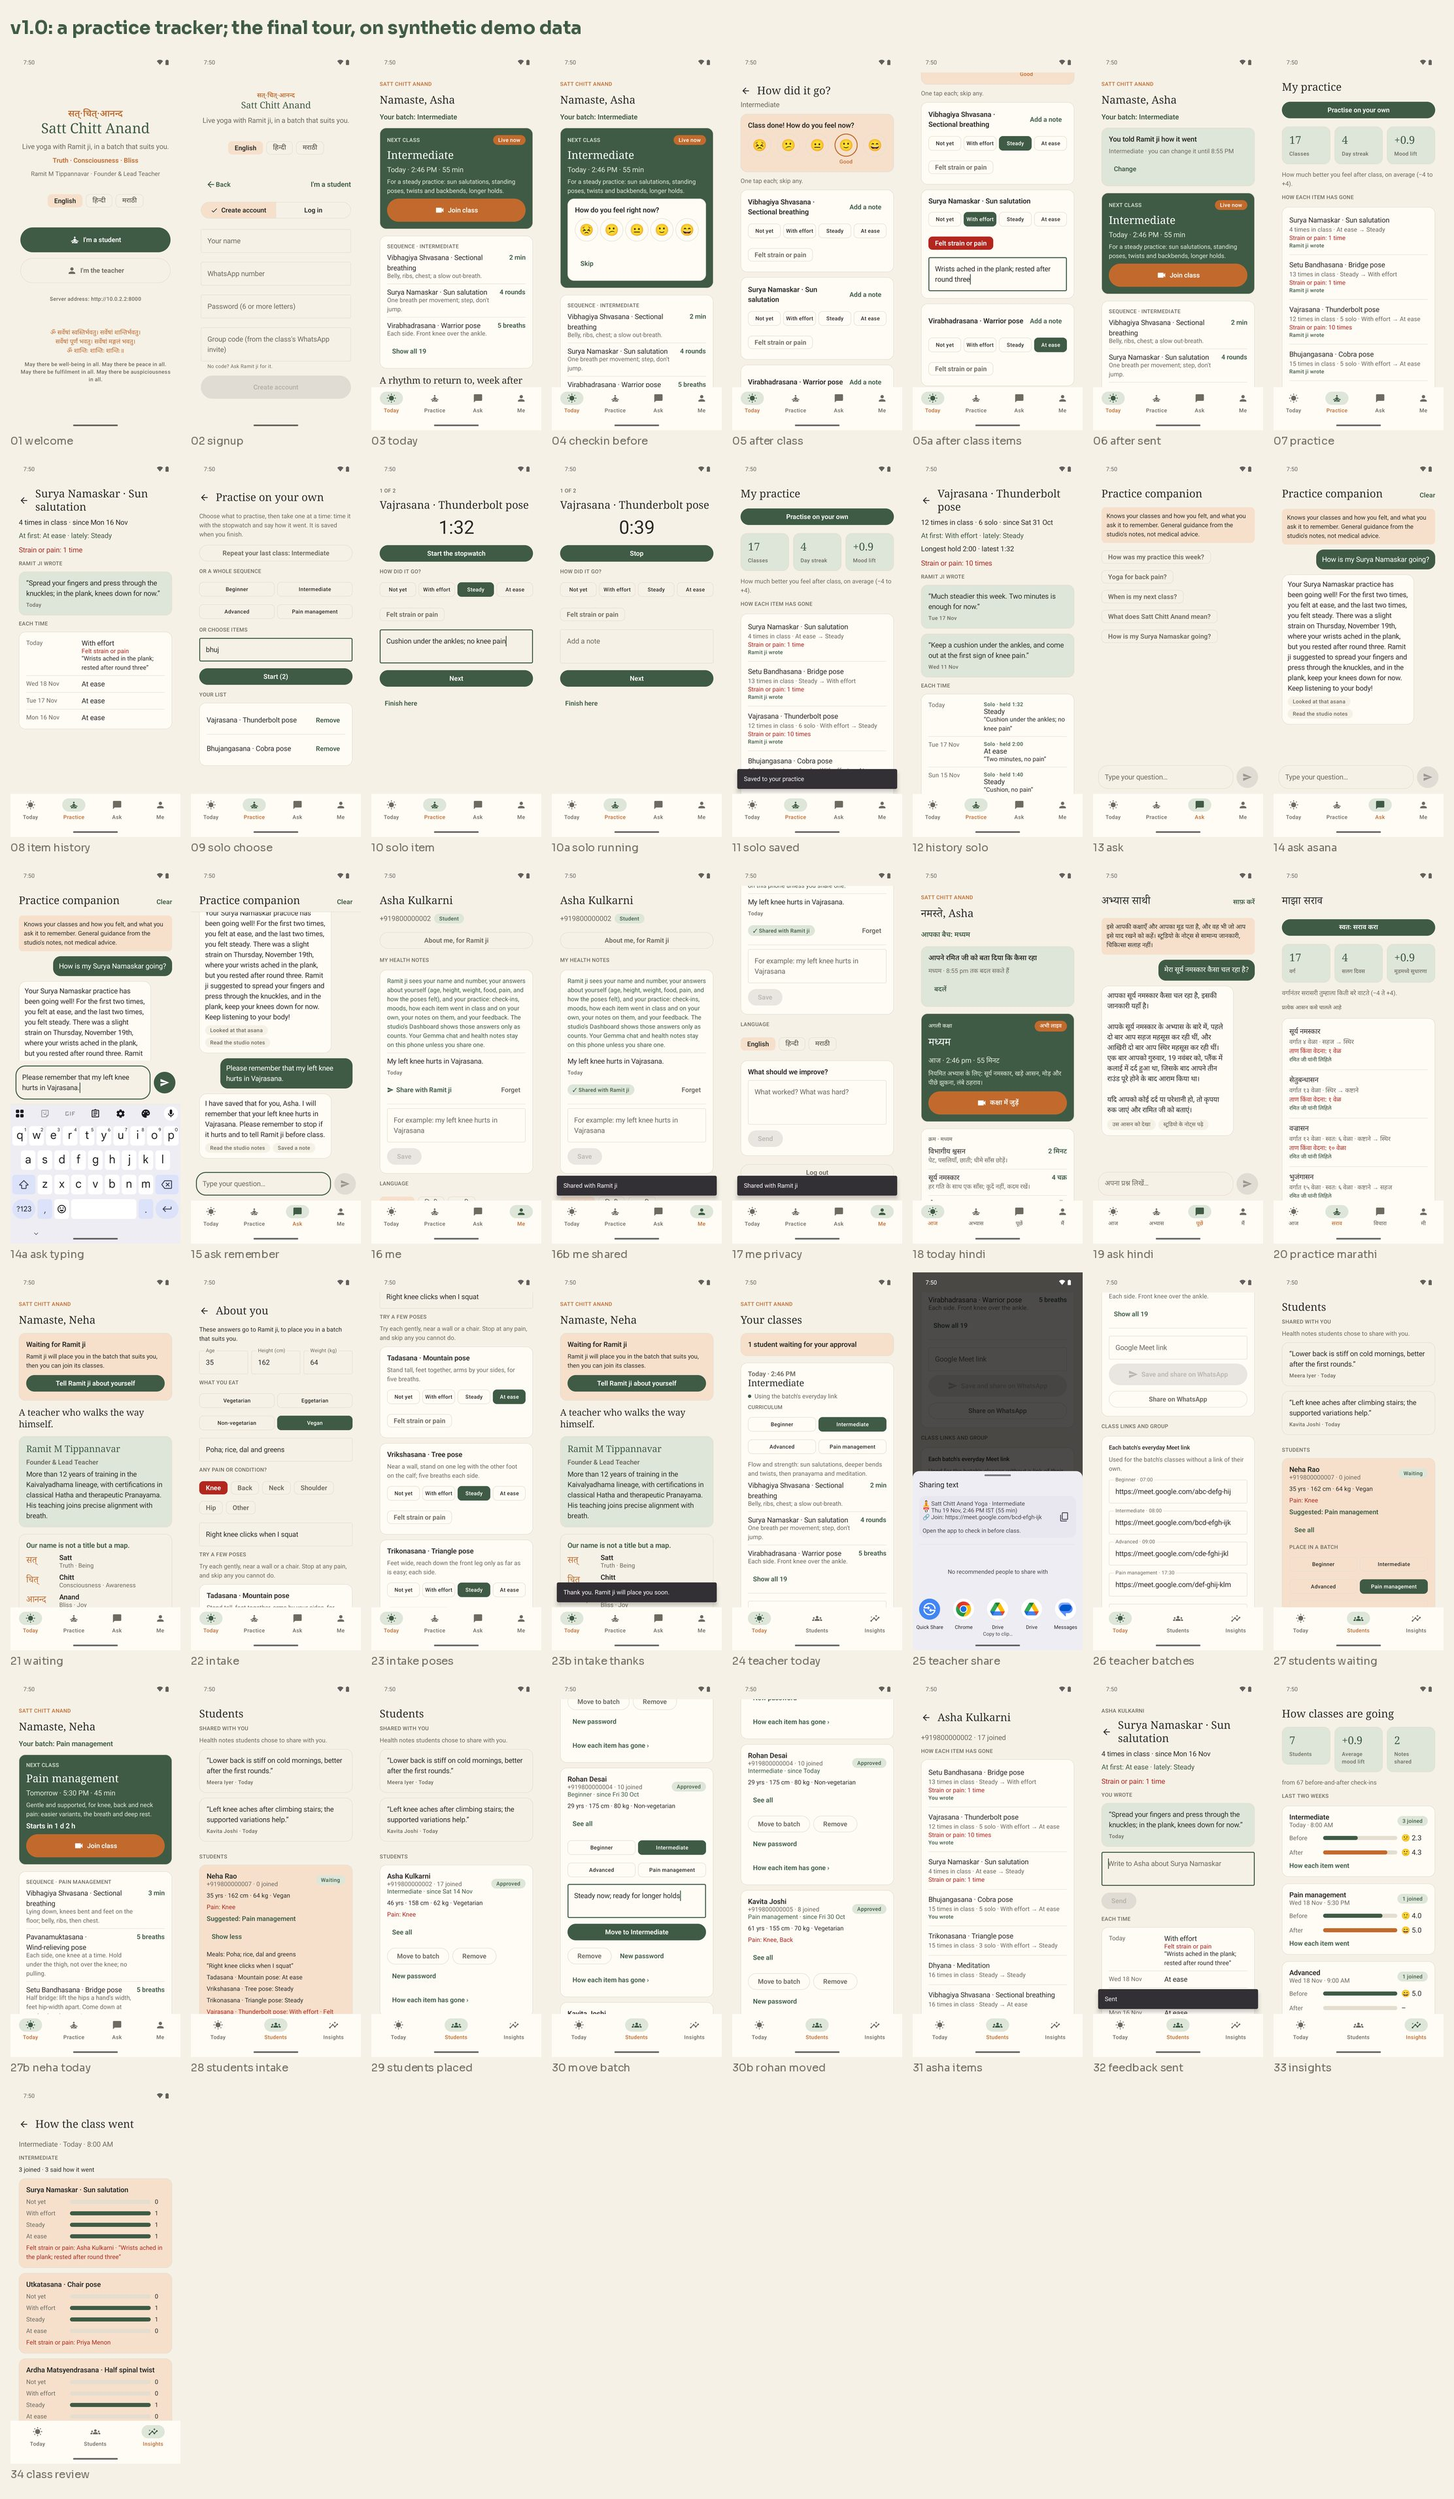
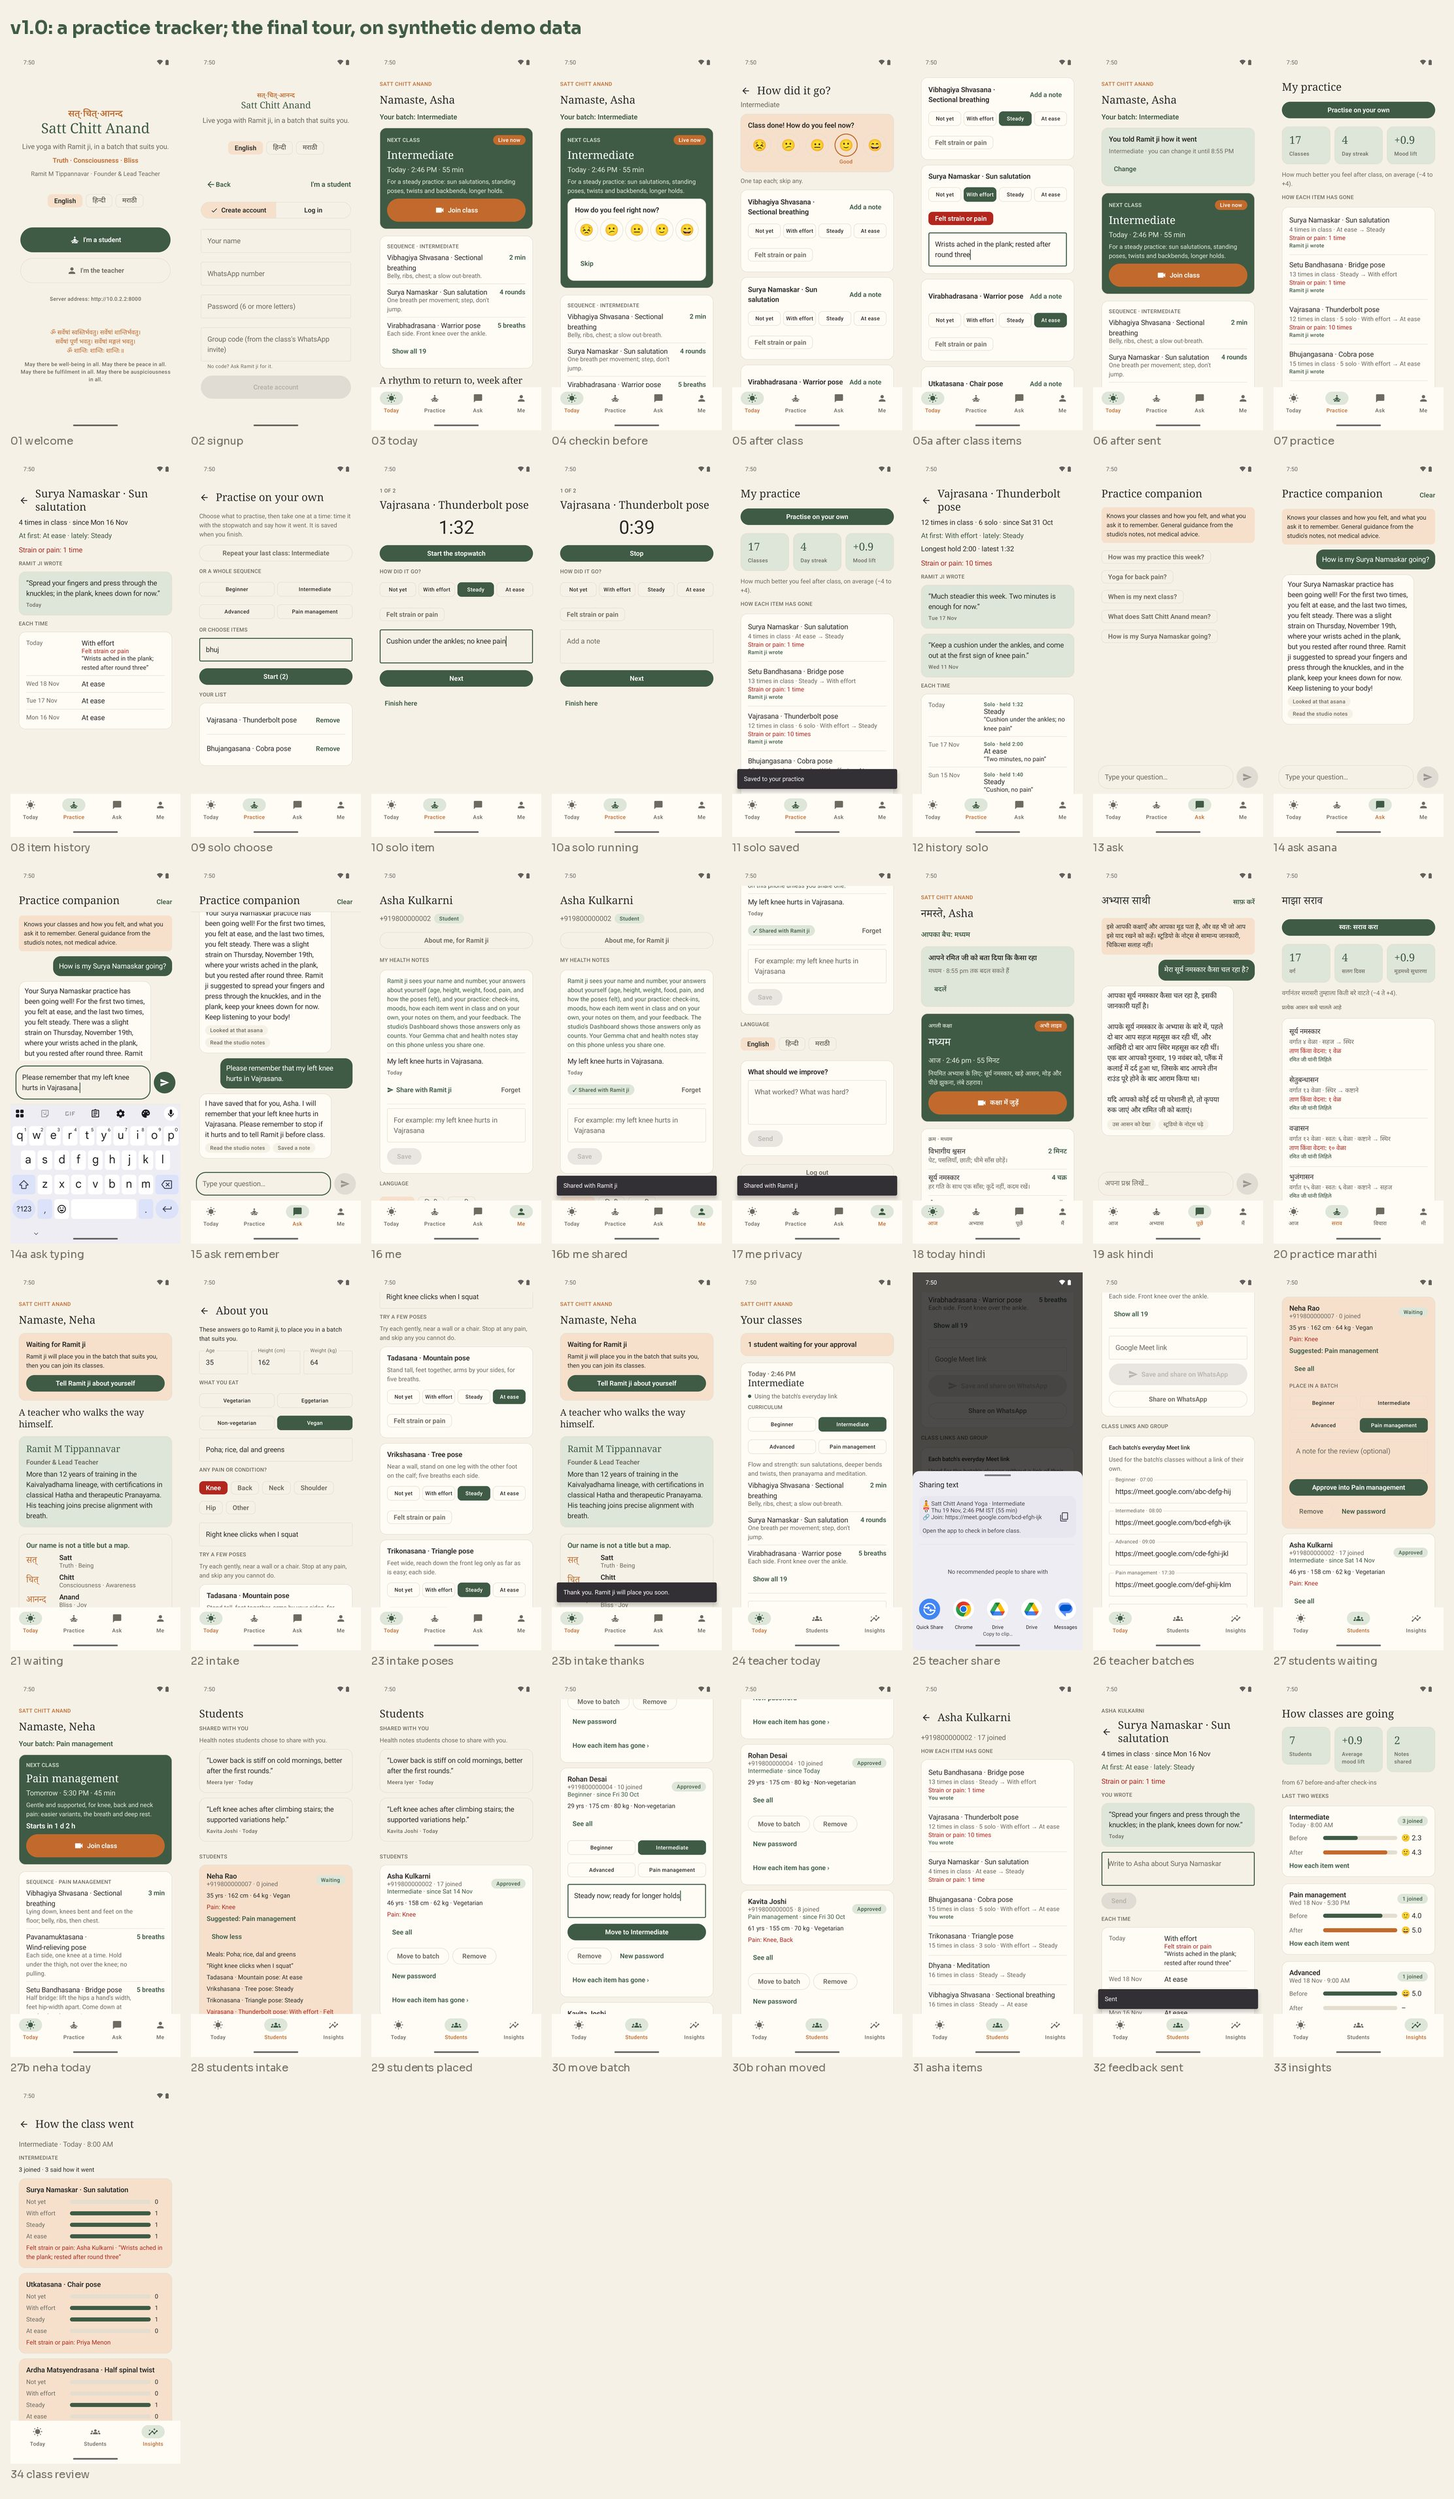
Tour framing for 05a and 27; the smoke test for the v1 backend
- The tour frames the after-class screen (05a) with the first item's card
  starting the screen, nothing cut through above it (card_to_top, a slow
  swipe that allows for the touch slop, measured and corrected), and the
  Students screen (27) with the waiting student's whole card in view, her
  name down to the approve button.
- appsscript/scripts/smoke.mjs checks v1's answers: health is {ok: true},
  and the studio in Marathi has the four batches (the first Beginner,
  नवशिके) and its tagline. It passes against the dev backend.
- The README's screens and the contact sheet with the new 05a and 27.

Claude-Session: https://claude.ai/code/session_011JbXS2i58PygtcTUZCcsk6

Changed region(s): [[0.8687, 0.4982, 0.9928, 0.6538], [0.6205, 0.0311, 0.7446, 0.1557], [0.7136, 0.1245, 0.7446, 0.1557]]

diff --git a/scripts/capture_tour.py b/scripts/capture_tour.py
@@ -19,6 +19,7 @@ about her own asana, Me with a health note shared, and Hindi and Marathi (07-20)
 Usage: python3 scripts/capture_tour.py v1.0
 """
 
+import re
 import subprocess
 import sys
 import time
@@ -97,6 +98,7 @@ def tour(version: str) -> None:
     p.tap_under("Surya Namaskar", "Add a note")
     p.type_under("Surya Namaskar", "Wrists ached in the plank; rested after round three")
     p.tap_under("Virabhadrasana", "At ease")
+    card_to_top("Sectional")  # the first item's card starts the screen, the mood card above it out of sight
     shot("05a_after_class_items")
     tap_scrolling("Done", exact=True)
     time.sleep(2)
@@ -135,6 +137,7 @@ def tour(version: str) -> None:
     shot("26_teacher_batches")
     p.tap("Students", exact=True)
     time.sleep(2)
+    bring("Neha Rao", 250)  # her whole card, below the shared notes: her name down to the approve button
     shot("27_students_waiting")  # the waiting student's answers and the batch they point to
     p.tap("See all", exact=True)
     time.sleep(1)
@@ -316,6 +319,25 @@ def bring(text: str, y: int) -> None:
     _, at = p.center(p.find(text))
     p.adb("shell", "input", "swipe", "540", "1200", "540", str(max(150, min(2200, 1200 + y - at))), "1500")
     time.sleep(1)
+
+
+def card_to_top(text: str) -> None:
+    """Scrolls so the card holding `text` starts one list gap below the top of the scrolling content: the row above
+    it is out of sight, not cut through. A slow swipe, measured again and corrected."""
+    for _ in range(3):
+        found = p.nodes()
+        bounds = lambda n: [int(v) for v in re.findall(r"\d+", n.get("bounds"))]  # noqa: E731
+        top = min(bounds(n)[1] for n, _ in found if n.get("scrollable") == "true")
+        title = next(n for n, _ in found if text in (n.get("text") or ""))
+        # The card's top: its title less the card's padding (20 dp), at the phone's 2.625 pixels to the dp.
+        card = bounds(title)[1] - 54
+        gap = 31  # the list's 12 dp between rows
+        move = top + gap - card
+        if abs(move) < 4:
+            return
+        slop = 21 if move > 0 else -21  # the first 8 dp of a drag only start it
+        p.adb("shell", "input", "swipe", "540", "1500", "540", str(1500 + move + slop), "2000")
+        time.sleep(1)
 
 
 def make_small(video: Path, small: Path) -> None:

diff --git a/scripts/viz.py b/scripts/viz.py
@@ -42,8 +42,8 @@ def fresh_screens(version: str) -> Path:
 
 
 def keep_screens(version: str) -> None:
-    """Swaps the run's screens in for the old set, carrying over the old set's files the run did not make (the
-    release's screens, say). A failed run never gets here, and the old set stays as it was."""
+    """Swaps the run's screens in for the set before, carrying over that set's files the run did not make (the
+    release's screens, say). A failed run never gets here, and the set before stays as it was."""
     old = screens(version)
     new = old.with_name(version + ".new")
     if old.exists():
